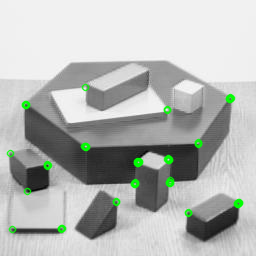
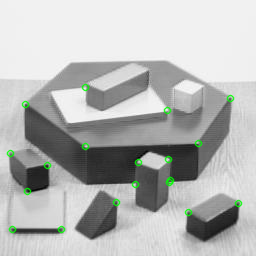
harris algo edge

diff --git a/CV_CS22/Ex1/main.py b/CV_CS22/Ex1/main.py
@@ -104,35 +104,27 @@ def harrisKeypoints(response, threshold=0.1):
     ## Note: Keypoints are stored with (x,y) and images are accessed with (y,x)!!
     points = []
 
-    for y in range(response.shape[0]):
-        for x in range(response.shape[1]):
+    for y in range(1, response.shape[0] - 1):
+        for x in range(1, response.shape[1] - 1):
             if response[y, x] > threshold:
-                idx_map = {"n1": (y + 1, x - 1),
-                           "n2": (y + 1, x),
-                           "n3": (y + 1, x + 1),
-                           "n4": (y, x - 1),
-                           "n5": (y, x + 1),
-                           "n6": (y - 1, x - 1),
-                           "n7": (y - 1, x),
-                           "n8": (y - 1, x + 1)}
-
                 n1 = response[y + 1, x - 1]
                 n2 = response[y + 1, x]
                 n3 = response[y + 1, x + 1]
 
                 n4 = response[y, x - 1]
-                n5 = response[y, x + 1]
+                n5 = response[y, x]
+                n6 = response[y, x + 1]
 
-                n6 = response[y - 1, x - 1]
-                n7 = response[y - 1, x]
-                n8 = response[y - 1, x + 1]
+                n7 = response[y - 1, x - 1]
+                n8 = response[y - 1, x]
+                n9 = response[y - 1, x + 1]
 
-                n = [n1, n2, n3, n4, n5, n6, n7, n8]
+                n = [n1, n2, n3, n4, n5, n6, n7, n8, n9]
 
                 idx_pos = np.argmax(n)
-                idx = idx_map.get('n' + str(idx_pos + 1))
 
-                points.append(cv2.KeyPoint(idx[1], idx[0], 1))
+                if idx_pos == 4:
+                    points.append(cv2.KeyPoint(x, y, 1))
 
     return points
 
@@ -146,6 +138,32 @@ def harrisEdges(input, response, edge_threshold=-0.01):
     ##
     ## Don't generate edges at the image border.
     result = input.copy()
+    for y in range(1, response.shape[0] - 1):
+        for x in range(1, response.shape[1] - 1):
+            if response[y, x] < edge_threshold:
+
+                n1 = response[y + 1, x - 1]
+                n2 = response[y + 1, x]
+                n3 = response[y + 1, x + 1]
+
+                n4 = response[y, x - 1]
+                n5 = response[y, x]
+                n6 = response[y, x + 1]
+
+                n7 = response[y - 1, x - 1]
+                n8 = response[y - 1, x]
+                n9 = response[y - 1, x + 1]
+
+                n = [n1, n2, n3, n4, n5, n6, n7, n8, n9]
+                ny = [n2,n5,n8]
+                nx = [n4,n5,n6]
+
+                idx_pos = np.argmin(n)
+                idx_pos_y = np.argmin(ny)
+                idx_pos_x = np.argmin(nx)
+
+                if idx_pos_y == 1 | idx_pos_x == 1:
+                    result[y, x] = (0, 0, 255)
 
     return result
 
